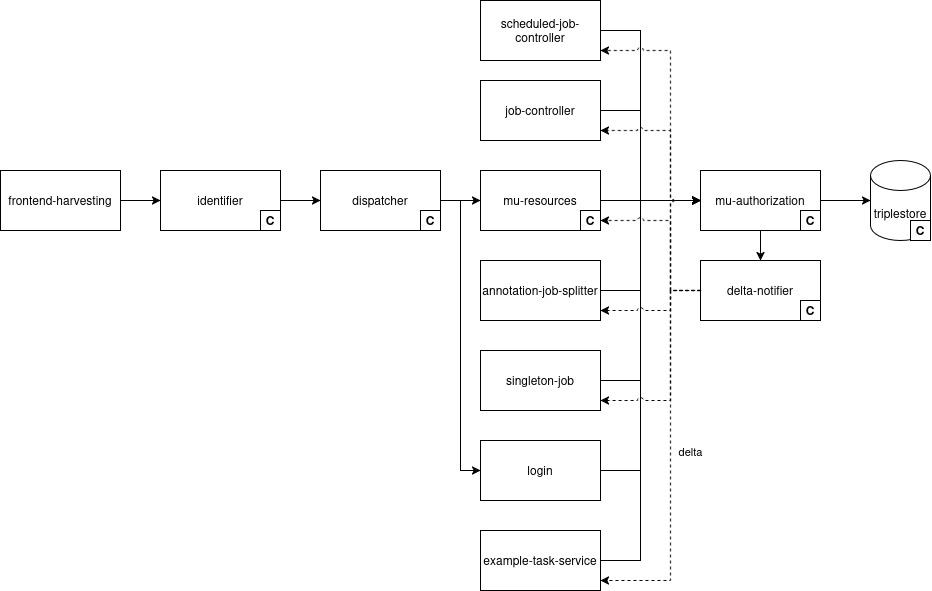
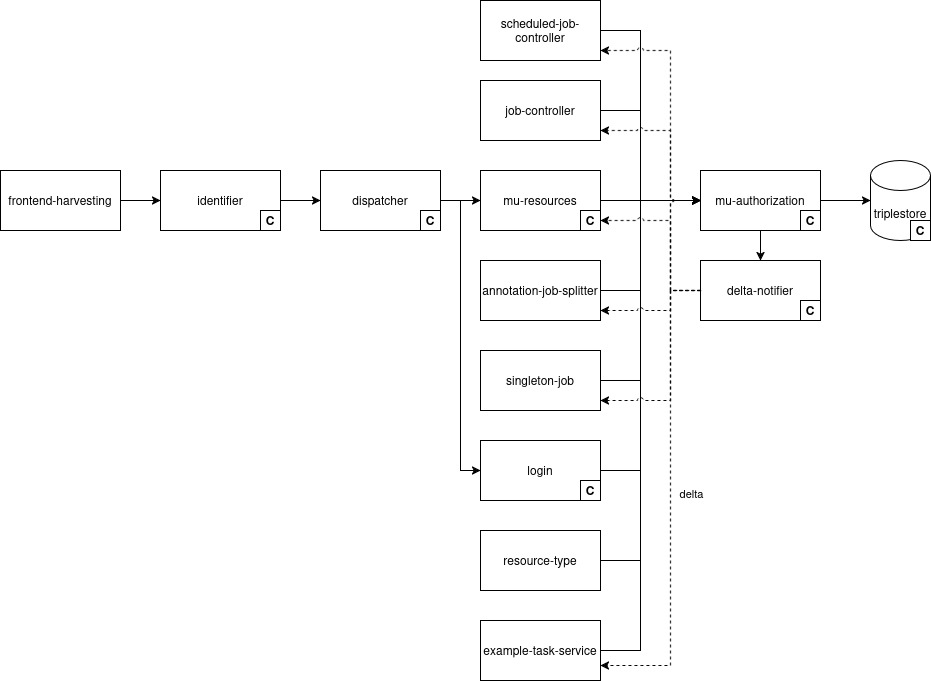
add resource type service description, add json-to-eli pipeline description

diff --git a/decide-project/write-up-uc0.0-data-space/write-up-uc0.0-pipelines.md b/decide-project/write-up-uc0.0-data-space/write-up-uc0.0-pipelines.md
@@ -234,7 +234,7 @@ A job or task status can take five values:
 
 The pipeline infrastructure is the foundational backbone for the ingestion and enrichment of LD\&L within the DECIDe data space.
 
-* Three **ingestion pipelines** bring LD\&L from each pilot city's source format into the data space and standardise it to a common linked-data representation (ELI): one for OSLO-Besluit data from Ghent, one for Freiburg's OParl-based council information system, and one for PDF documents –the only format available for decisions from Bamberg.
+* Initially, three **ingestion pipelines** brought LD\&L from each pilot city's source format into the data space and standardise it to a common linked-data representation (ELI): one for OSLO-Besluit data from Ghent, one for Freiburg's OParl-based council information system, and one for PDF documents –the only format available for decisions from Bamberg. Later, Bamberg offered a custom JSON-based format to describe decisions. This was used as an experiment for how easy it was to set up a new, fourth pipeline for another kind of input.
 * Working on top of this normalised input, the enrichment tasks of the **AI pipeline** generate the annotations that downstream use cases depend on.
 * Underpinning all of this is a **pipeline infrastructure** that controls when and how each pipeline runs, sequences its individual steps, tracks status in the triplestore, and surfaces failures for inspection.
 
@@ -311,13 +311,19 @@ There are many custom task execution services in the DECIDe project, a GitHub li
 
 #### Login service
 
-The login service is the only core service that we didn't describe in the core architecture. This is because it's only realy relevant in the context of managing the pipeline as this is the only place users really need to sign in. Only authenticated users are allowed to create or manage jobs. The login service allows users to authenticate with a username/password combination. When new users want to register, they need to run a `mu-cli` script on the server. For more details, have a look at [the DECIDe README](https://github.com/lblod/app-decide/#registering-an-account).
+The login service is the only core service that we didn't describe in the core architecture. This is because it's only relevant in the context of managing the pipeline as this is the only place users really need to sign in. Only authenticated users are allowed to create or manage jobs. The login service allows users to authenticate with a username/password combination. When new users want to register, they need to run a `mu-cli` script on the server. For more details, have a look at [the DECIDe README](https://github.com/lblod/app-decide/#registering-an-account).
 
 **GitHub**: [https://github.com/mu-semtech/login-service](https://github.com/mu-semtech/login-service)
 
+#### Resource Type service
+
+To provide a better overview of the inputs and outputs of the different tasks, the number of resources in the input and output containers of tasks is shown in the harvester frontend. As we don't know the types of these resources beforehand, the mu-resources service is not suited to this task and we need custom queries to retrieve these counts. The resource type service is a very simple microservice that was created to house these queries.
+
+**GitHub**: [https://github.com/lblod/resource-type-service](https://github.com/lblod/resource-type-service)
+
 ### Ingestion pipelines
 
-LD\&L arrives from three structurally different sources: OSLO-Besluit (Belgian linked data), OParl (German JSON API), and PDF. To allow every downstream processing step to work identically regardless of source city, all three are normalised to a single common representation before entering the enrichment pipeline. The ELI (European Legislation Identifier) ontology was chosen as that representation. ELI provides a linked-data-native vocabulary for describing legislation through Work, Expression, and Manifestation entities. Normalising to ELI at the ingestion stage means that the enrichment pipelines all operate on identical data structures regardless of which city the decision came from.
+LD\&L arrives from four structurally different sources: OSLO-Besluit (Belgian linked data), OParl (German JSON API) PDF and finally the custom JSON format defined in Bamberg. To allow every downstream processing step to work identically regardless of source city, all four are normalised to a single common representation before entering the enrichment pipeline. The ELI (European Legislation Identifier) ontology was chosen as that representation. ELI provides a linked-data-native vocabulary for describing legislation through Work, Expression, and Manifestation entities. Normalising to ELI at the ingestion stage means that the enrichment pipelines all operate on identical data structures regardless of which city the decision came from.
 
 For each source format, a dedicated pipeline is responsible for collecting the original data, converting it to ELI, and storing it in the data space.
 
@@ -422,6 +428,20 @@ For each PDF URL that the content extraction service receives, it will first dow
 2. The text before the very first title is copied at the top of each decision, as this contains the date of the meeting and the participants.
 
 Finally, an ELI Manifestation is created, referring to the processed PDF URL, together with an ELI Work and ELI Expression for each decision.
+
+#### JSON to ELI pipeline
+
+Later in the project, the city of Bamberg provided a new, more structured way to describe their decisions as JSON data. This was taken as an experiment to evaluate how easy it was to add another input format and slot it into the existing pipeline architecture. This turned out to be quite easy to achieve. A single additional service was needed to transform the JSON format to the ELI standard and from there on, the existing pipelines could be reused.
+
+[**JSON to ELI service**](https://github.com/lblod/decide-json-to-eli-service)
+
+The JSON to ELI service transforms decisions in the custom JSON format used by the city of Bamberg into triples according to the ELI standard used throughout the project. It's a service modelled as an 'example-task-service' in the pipeline architecture above that reacts to json-to-eli transformation tasks being created by the job-controller.
+
+So given this transformation service, the only other changes needed were:
+- the creation of a new pipeline configuration that uses this type of task and otherwise is a carbon-copy of the pdf-to-eli pipeline.
+- an update to the harvester frontend so that it can also create this type of task.
+
+Once the decisions from the JSON file were transformed into ELI compliant triples, all AI enrichment services from all use cases simply work as before, with no additional changes necessary. As such the addition of the JSON to ELI service is a demonstration case of how the DECIDe project can be extended to work on additional decision source formats.
 
 ### Other explored semantic components (and why not)
 